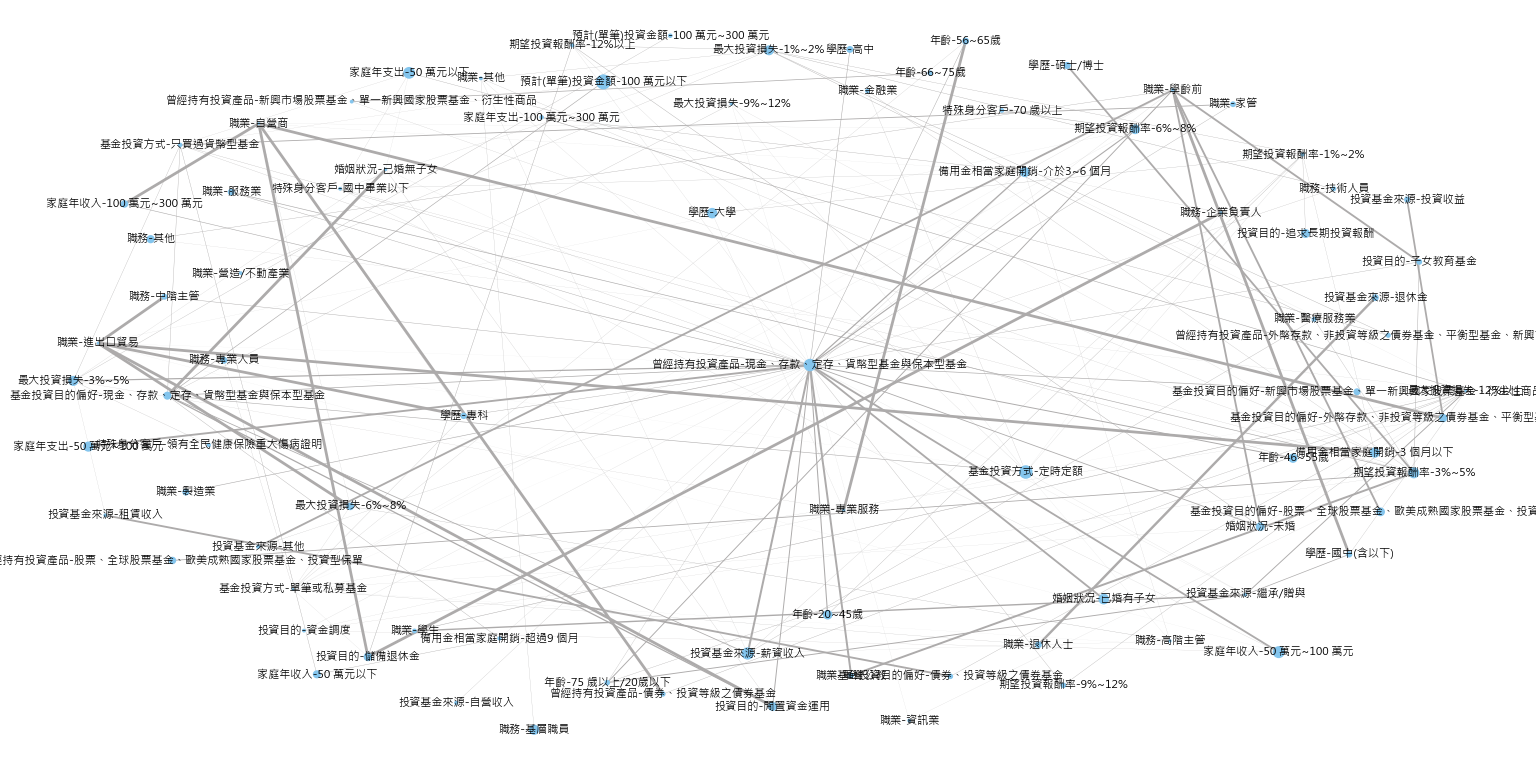
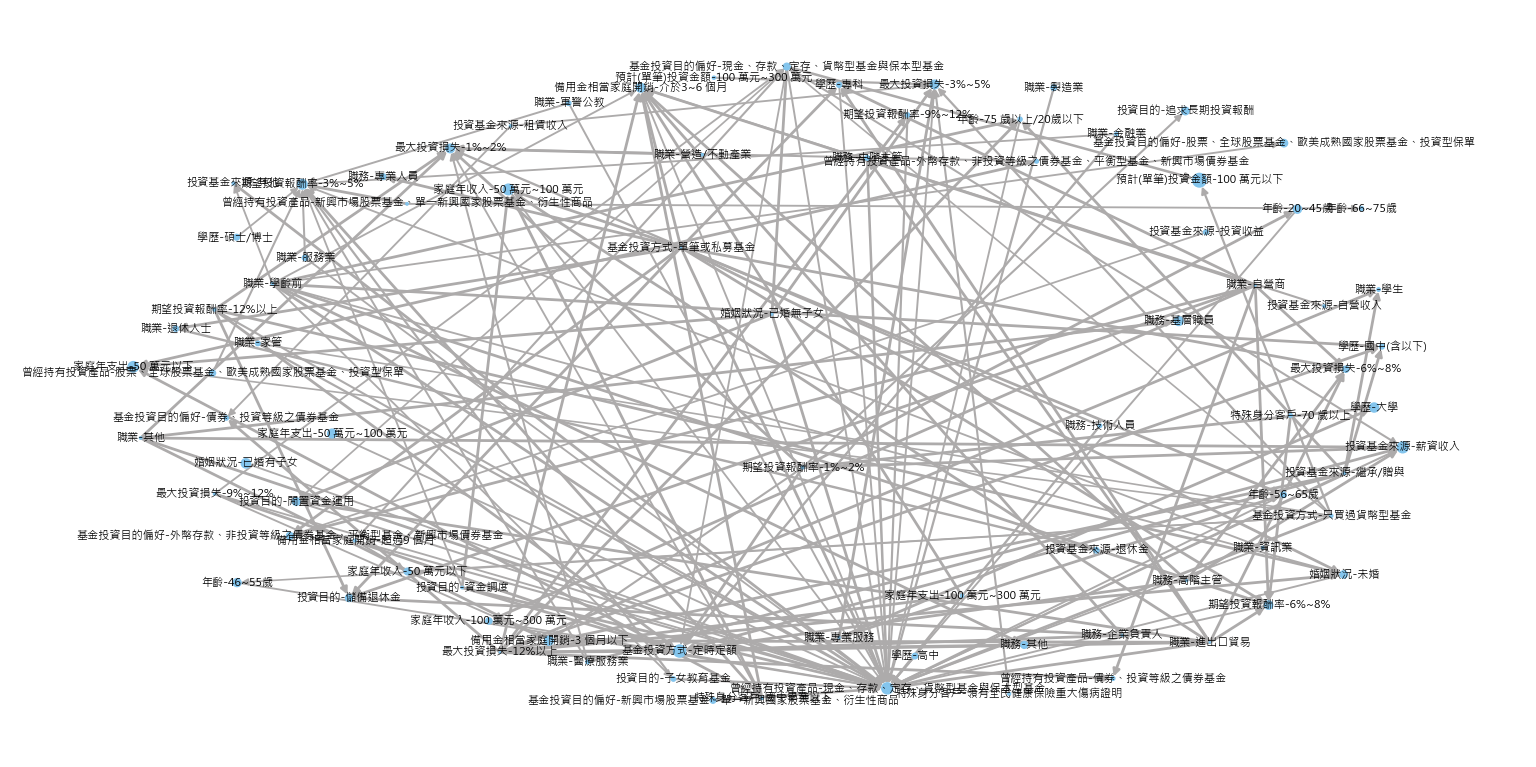
change to digraph

Changed region(s): [[0.0, 0.03, 1.0, 0.9596]]

diff --git a/HW2/co-occurrence_graph.py b/HW2/co-occurrence_graph.py
@@ -21,10 +21,10 @@ def drawing_graph(G, nodesize, edgesize):
 df_comatrix = pd.read_csv(sys.argv[1], index_col="label_headers", encoding="utf-8")
 df_freq = pd.read_csv(sys.argv[2], index_col="label_headers", encoding="utf-8")
 #draw only these specific nodes into graph
-spec_nodes = [i for i in df_comatrix.index.values]
-#spec_nodes = [i for i in df_comatrix.index.values if i.find("年收入") != -1]
+#spec_nodes = [i for i in df_comatrix.index.values]
+spec_nodes = [i for i in df_comatrix.index.values if i.find("年收入") != -1]
 
-G = nx.Graph()
+G = nx.DiGraph()
 for i in spec_nodes:
     for j in df_comatrix.columns.values:
 #condition
@@ -37,7 +37,8 @@ if len(sys.argv) == 4:
     for i in spec_nodes:
         for j in G.nodes:
 #condition according to diff_matrix
-            if i != j and (df_diffmatrix.ix[i, j] >= 0.6 or df_diffmatrix.ix[j, i] >= 0.6):
+            #if i != j and (df_diffmatrix.ix[i, j] >= 0.6):
+            if i != j and (df_diffmatrix.ix[i, j] <= -0.6):
                 sub_edge.append((i, j))
                 #print(i, j, df_comatrix.ix[i, j])
     H = G.edge_subgraph(sub_edge)
